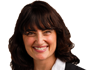
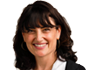
added Bios index page, updated headshot images, generalized Error layout to NoSidebar layout, made changes to Support pages that are irrelevant as a future commit will be replacing these with a flatpage solution

diff --git a/app/assets/stylesheets/base/patterns.css.scss b/app/assets/stylesheets/base/patterns.css.scss
@@ -1,5 +1,6 @@
 /* Patterns.scss
- * Repeatable UI elements outside defined base styles
+ * Repea
+ UI elements outside defined base styles
  * ---------------------------------------------------------------------------- */
 
 // Body style

diff --git a/app/assets/stylesheets/base/tables.css.scss b/app/assets/stylesheets/base/tables.css.scss
@@ -30,7 +30,7 @@ table {
 // --------------
 
 // Default zebra-stripe styles (alternating gray and transparent backgrounds)
-.zebra-striped {
+.table-striped {
   tbody {
     tr:nth-child(odd) td {
       background-color: #f9f9f9;

diff --git a/app/controllers/home_controller.rb b/app/controllers/home_controller.rb
@@ -19,11 +19,11 @@ class HomeController < ApplicationController
   end
   
   def error
-    render :template => "/error/500.html", :status => 500, :layout => "error"
+    render :template => "/error/500.html", :status => 500, :layout => "app_nosidebar"
   end
   
   def not_found
-    render :template => "/error/404.html", :status => 404, :layout => "error"
+    render :template => "/error/404.html", :status => 404, :layout => "app_nosidebar"
   end
   
   #----------

diff --git a/app/controllers/people_controller.rb b/app/controllers/people_controller.rb
@@ -1,5 +1,9 @@
 class PeopleController < ApplicationController
   
+  def index
+    @bios = Bio.where(:is_public => true).order("last_name")
+  end
+  
   def bio
     @bio = Bio.where(:slugged_name => params[:name]).first
     
